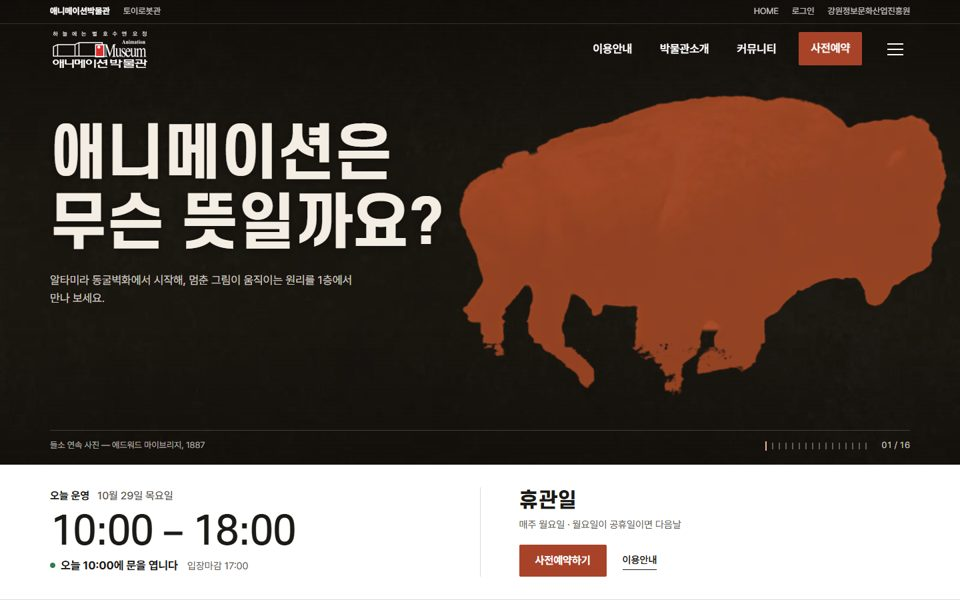
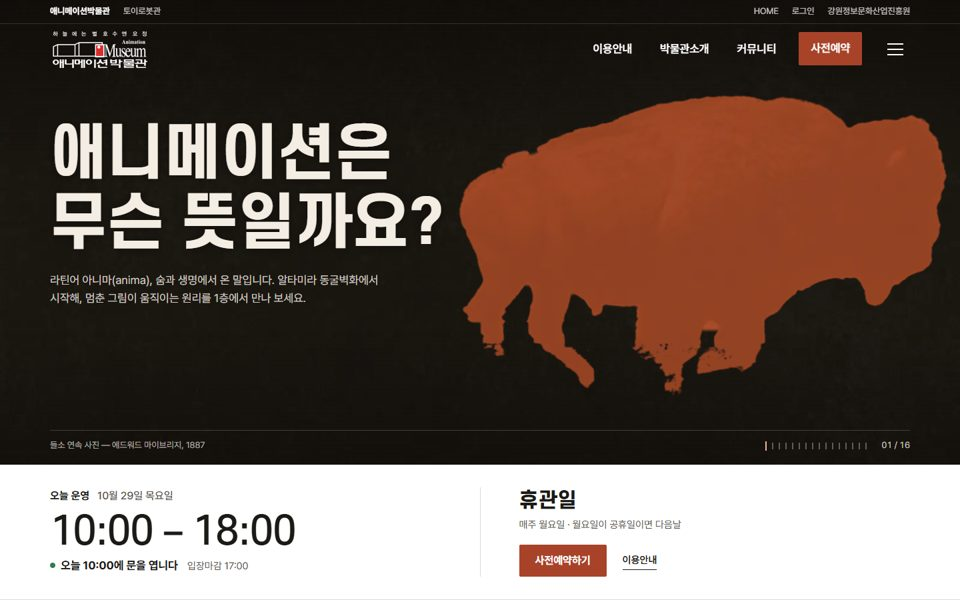
춘천 애니메이션박물관 1안 첫 화면 질문에 답 한 줄 — 애니메이션은 라틴어 아니마(숨·생명)에서 온 말

Changed region(s): [[0.0312, 0.45, 0.4062, 0.51]]

diff --git a/new/1/index.html b/new/1/index.html
@@ -79,7 +79,7 @@
               <span class="q-a">애니메이션은<br>무슨 뜻일까요?</span>
               <span class="q-b">멈춘 그림에<br>숨을 불어넣는 일.</span>
             </h1>
-            <p class="hero-sub">알타미라 동굴벽화에서 시작해, 멈춘 그림이 움직이는 원리를 1층에서 만나 보세요.</p>
+            <p class="hero-sub">라틴어 아니마(anima), 숨과 생명에서 온 말입니다. 알타미라 동굴벽화에서 시작해, 멈춘 그림이 움직이는 원리를 1층에서 만나 보세요.</p>
           </div>
           <div class="hero-stage" id="stage">
             <div class="bison" id="bison" role="img" aria-label="동굴 벽에 붉은 흙색으로 찍힌 들소. 내리거나 끌면 연속 사진 16장이 넘어가며 달립니다."></div>
